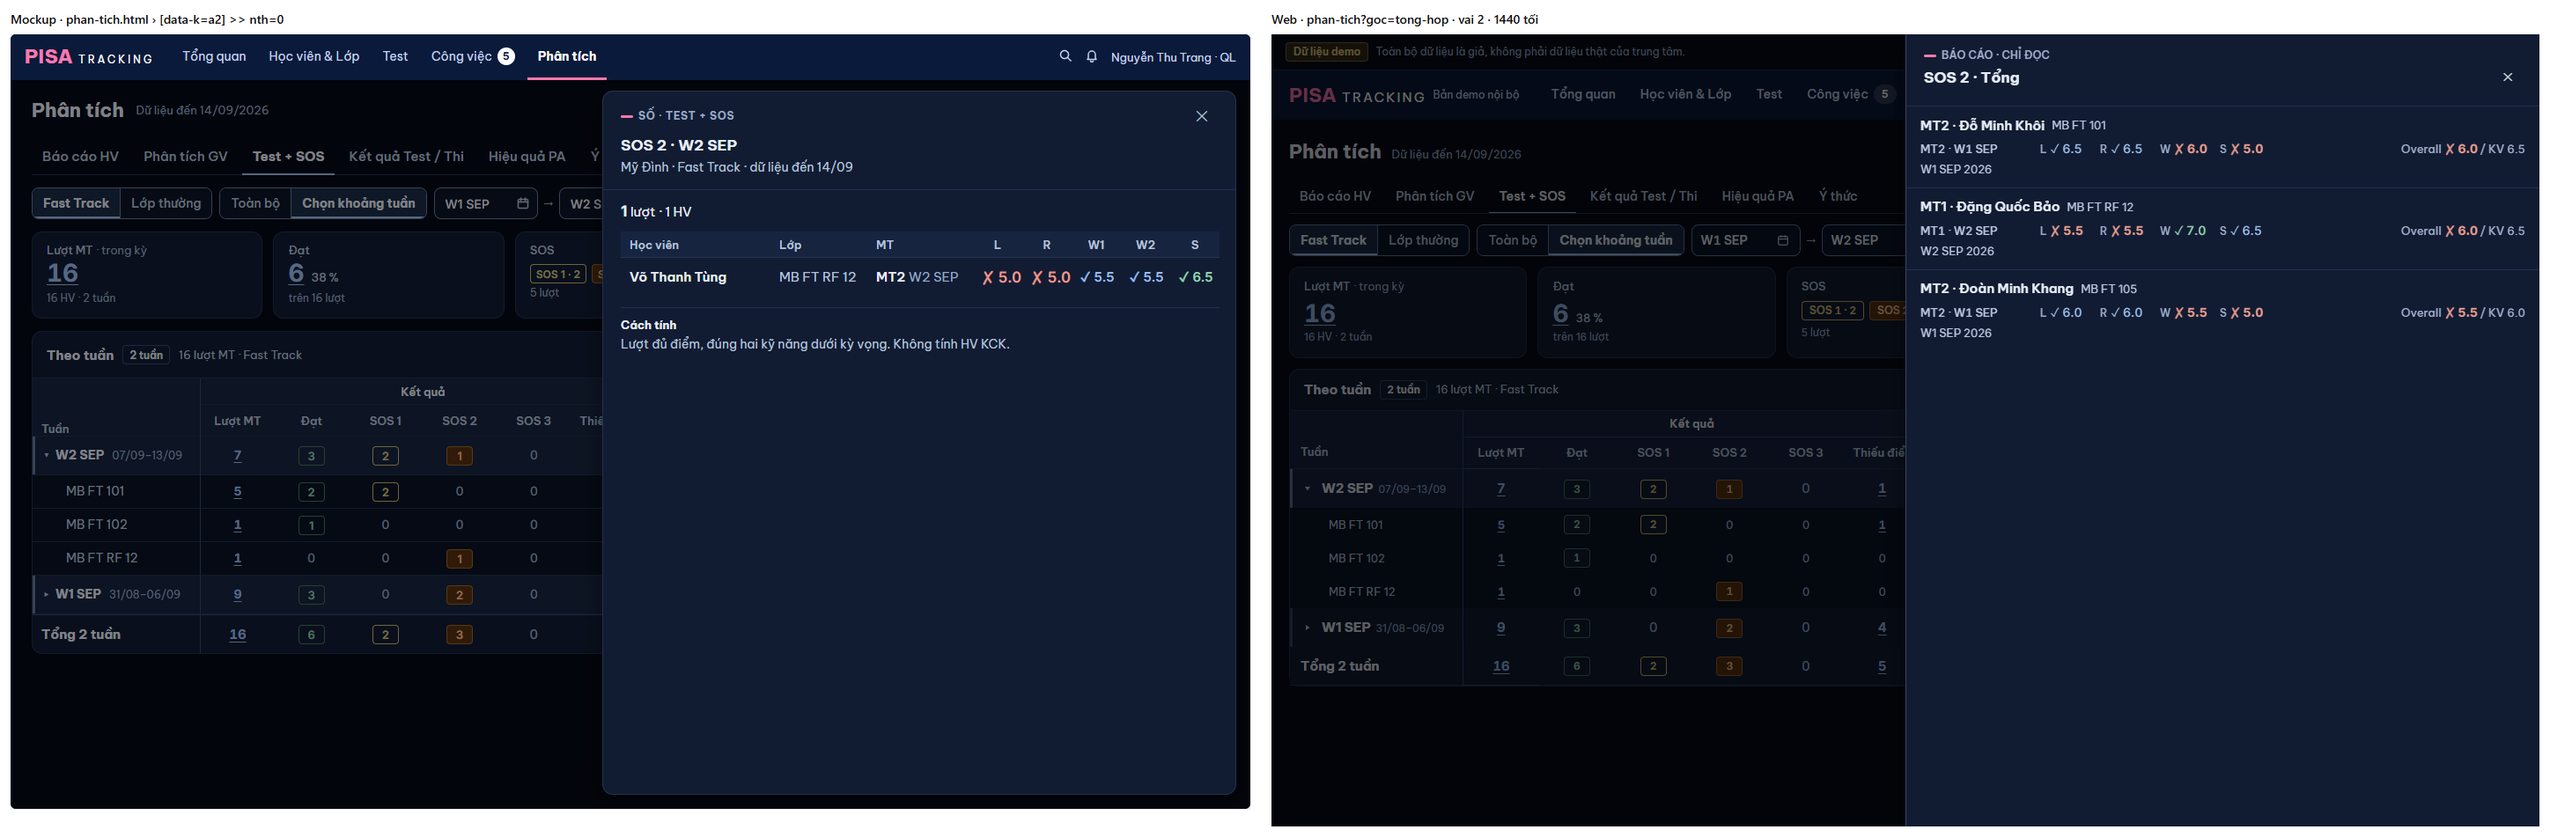
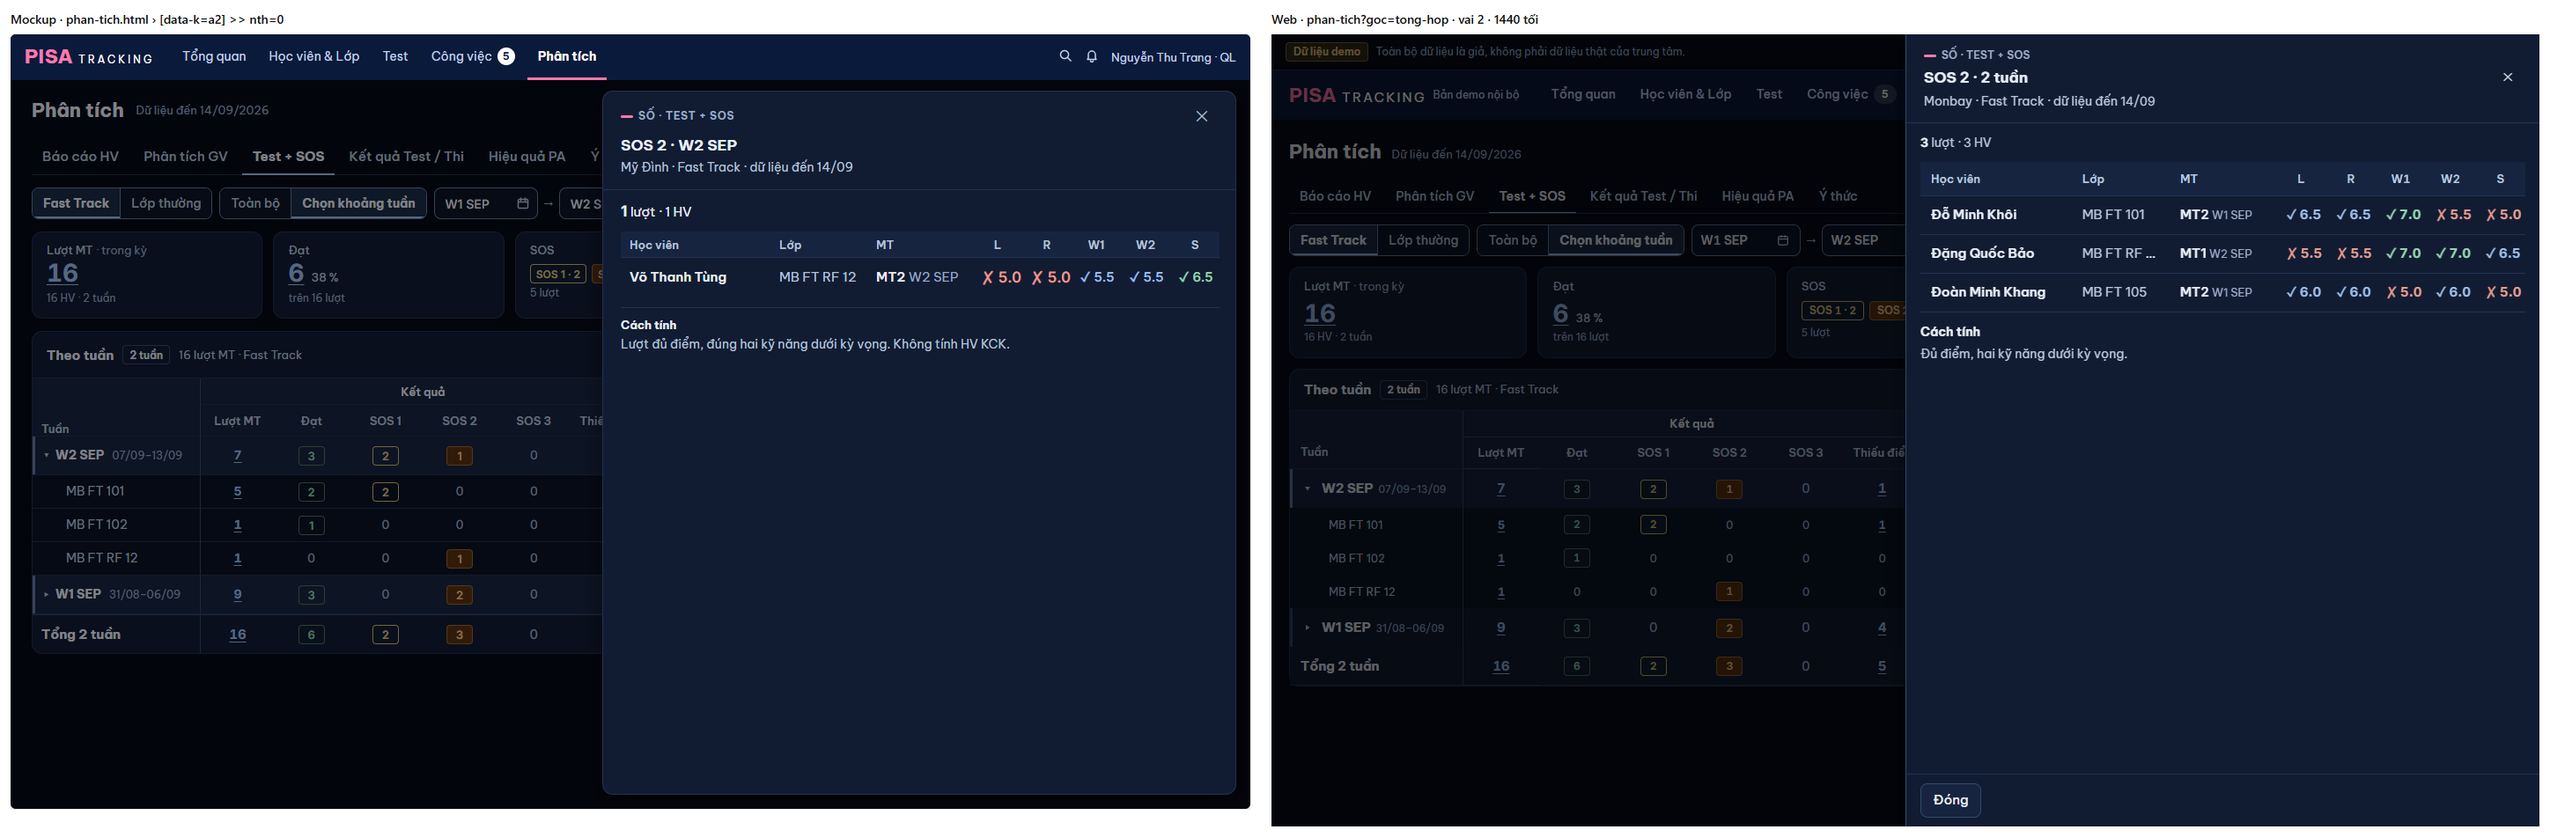
U08-2: panel số Test + SOS thành bảng như mockup (BangLuotPanel: L R W1 W2 S, Cách tính); chip trạng thái Case viền + chấm

Changed region(s): [[0.7459, 0.061, 0.9945, 0.4269], [0.9323, 0.1525, 0.9945, 0.183], [0.7459, 0.9453, 0.7769, 0.9758]]

diff --git a/server/src/phanTich/tongHop.ts b/server/src/phanTich/tongHop.ts
@@ -9,12 +9,11 @@ import { badRequest, forbidden } from '../util.ts';
 import { classScopeSql, scopeFor, type Principal } from '../permissions.ts';
 import { demoToday } from '../demoConfig.ts';
 import { mondayOf } from '../platform/week.ts';
-import { entryBandsOf, loadBundle, type AttemptBundle } from '../fasttrack/attempts.ts';
+import { entryBandsOf, loadBundle, resultOf, type AttemptBundle } from '../fasttrack/attempts.ts';
 import { expectationFor, failingEntrySkills } from '../fasttrack/scoring.ts';
 import { allProgrammes, type ProgrammeInfo } from '../normal/regular.ts';
 import { evaluateAttemptRow, luotKck } from '../worklist/danhGia.ts';
 import { rowsFor, type MetricRow } from '../worklist/metrics.ts';
-import { diemTuMock } from '../worklist/diemDong.ts';
 import { mockTrongKhoang } from './ketQuaThi.ts';
 import { CASE_THAT, XU_LY_COT_SQL, xuLyCuaDong } from '../cases/sosState.ts';
 
@@ -319,7 +318,7 @@ export function tongHop(p: Principal, f: FilterTongHop): TongHopKetQua {
 
 /** Danh sách của MỘT ô — tính lại bằng chính `tinh`, nên danh sách luôn đúng bằng con số (G-10). */
 export function oTongHop(p: Principal, f: FilterTongHop & { khoa: string; cot: string }):
-  { n: number; tieuDe: string; rows: MetricRow[] } {
+  { n: number; tieuDe: string; rows: MetricRow[]; bangLuot?: boolean; cachTinh?: string | null; chiNhanh?: string | null } {
   const cotDef = (cotSoLieu(f.ct) as CotTongHop[]).find((c) => c.khoa === f.cot);
   if (!cotDef) throw badRequest(`Cột "${f.cot}" không có trong bảng.`);
   const r = tinh(p, f);
@@ -338,17 +337,47 @@ export function oTongHop(p: Principal, f: FilterTongHop & { khoa: string; cot: s
     n: ids.length,
     tieuDe: `${ids.length} ${nhanDonVi(cotDef.donVi, f.ct)} — ${cotDef.nhomCon ? `${NHAN_NHOM_CON[cotDef.nhomCon]} · ` : ''}${cotDef.nhan(f.ct)} · ${nhanDong}`,
     rows: ganDiemLuot(p, cotDef.donVi, f.ct, rowsFor(cotDef.donVi, ids)),
+    /* U08-2: đầu panel bảng lượt — tên chi nhánh (web ghép "· Fast Track · dữ liệu đến dd/mm") + khối Cách tính (chữ gợi ý của cột, web dịch). */
+    ...(cotDef.donVi === 'dot-test' && f.ct === 'ft' ? {
+      bangLuot: true, cachTinh: cotDef.goiY ?? null,
+      chiNhanh: f.branchId ? (db().prepare('SELECT name FROM branches WHERE id = ?').get(f.branchId) as any)?.name ?? null : null,
+    } : {}),
   };
 }
 
+/** U08-2: một ô điểm của bảng lượt — band + so kỳ vọng của lượt (`resultOf`, cùng bộ máy chấm). */
+export type ODiemLuot = { v: number; kq: 'vuot' | 'bang' | 'duoi' | null } | null;
+export type DongLuotDiem = { studentId: number; ten: string; classId: number | null; lop: string; mt: number; tuan: string; kn: Record<'l' | 'r' | 'w1' | 'w2' | 's', ODiemLuot> };
+const KN_BANG = { l: 'listening', r: 'reading', w1: 'writing1', w2: 'writing2', s: 'speaking' } as const;
+
 /**
- * U08-2 (mockup V11 A2): dòng LƯỢT của panel Test + SOS (FT) kèm điểm L R W1 W2 S của CHÍNH lượt (`diemTuMock`, cùng ô Kết quả Test) — panel rộng 720
- * vẽ bảng điểm. Chỉ chạy khi MỞ panel: một câu lượt theo id + điểm / lịch của các lượt đó (`mockTrongKhoang` với `luot` truyền sẵn, không nạp Case).
+ * U08-2 (mockup V11 A2, PTA chốt 05/11 làm BẢNG): dòng LƯỢT của panel Test + SOS (FT) kèm điểm L R W1 W2 S của CHÍNH lượt — panel 720 vẽ bảng
+ * Học viên · Lớp · MT · L R W1 W2 S. Chỉ chạy khi MỞ panel: một câu lượt theo id + điểm / lịch của các lượt đó (`mockTrongKhoang` với `luot` sẵn,
+ * không nạp Case; `loadBundle` dùng lại điểm đã nhớ trong request).
  */
 function ganDiemLuot(p: Principal, donVi: string, ct: ChuongTrinh, rows: MetricRow[]): MetricRow[] {
   if (donVi !== 'dot-test' || ct !== 'ft' || !rows.length) return rows;
   const ph = rows.map(() => '?').join(',');
   const luot = luotTrongKhoang(`a.id IN (${ph})`, rows.map((r) => r.id));
-  const diem = new Map(mockTrongKhoang(p, { tu: '', den: '' }, { luot, boCase: true }).map((d) => [d.attemptId, diemTuMock(d)]));
-  return rows.map((r) => (diem.has(r.id) ? { ...r, diemHv: diem.get(r.id) } : r));
+  const mock = new Map(mockTrongKhoang(p, { tu: '', den: '' }, { luot, boCase: true }).map((d) => [d.attemptId, d]));
+  const bundle = loadBundle(luot.filter((a) => mock.has(a.id)).map((a) => a.id), { boCase: true });
+  const theoId = new Map(luot.map((a) => [a.id as number, a]));
+  return rows.map((r) => {
+    const d = mock.get(r.id), a = theoId.get(r.id);
+    if (!d || !a) return r;
+    const kq = resultOf(a, bundle.scores.get(a.id) ?? [], bundle.skips.get(a.id) ?? [], bundle.skillRows.get(a.id) ?? []);
+    const bands = entryBandsOf(bundle.scores.get(a.id) ?? []);
+    /* Kỹ năng: kết luận của bộ máy chấm (`verdicts`); W1 · W2 (verdict gộp W) so thẳng band với kỳ vọng của lượt — cùng luật cột "Dưới kỳ vọng · W1 / W2". */
+    const o = (k: string): ODiemLuot => {
+      const v = kq.verdicts.find((x) => x.skill === k);
+      const band = v ? v.band : bands[k as keyof typeof bands] ?? null;
+      if (band === null || band === undefined) return null;
+      const exp = kq.expectation;
+      if (v) return { v: band, kq: v.passed === false ? 'duoi' : v.passed === null ? null : exp !== null && band > exp ? 'vuot' : 'bang' };
+      return { v: band, kq: exp === null ? null : band < exp ? 'duoi' : band > exp ? 'vuot' : 'bang' };
+    };
+    const luotDiem: DongLuotDiem = { studentId: d.studentId, ten: d.ten, classId: d.classId, lop: d.lop, mt: d.mt, tuan: d.tuan,
+      kn: { l: o(KN_BANG.l), r: o(KN_BANG.r), w1: o(KN_BANG.w1), w2: o(KN_BANG.w2), s: o(KN_BANG.s) } };
+    return { ...r, luotDiem } as MetricRow;
+  });
 }

diff --git a/web/src/ui/BangLuotPanel.tsx b/web/src/ui/BangLuotPanel.tsx
@@ -1,0 +1,60 @@
+import { Link } from 'react-router-dom';
+import { KhungPanel } from './KhungPanel.tsx';
+import { Bang } from './Bang.tsx';
+import { ODiem } from './ODiem.tsx';
+import { ErrorState, Skeleton } from './ui.tsx';
+import { useNgayNghiepVu } from './ngayNghiepVu.ts';
+import { fmtBand } from '../lib/format.ts';
+import type { ApiError } from '../lib/api.ts';
+import { duongDotTest, duongHoSoHocVien, ngay, tuanLich, type DinhNghiaCot } from '@shared/domain/index.ts';
+import { dich, t } from '@shared/i18n/index.ts';
+
+type ODiemLuot = { v: number; kq: 'vuot' | 'bang' | 'duoi' | null } | null;
+/** `server/src/phanTich/tongHop.ts` `DongLuotDiem` — một lượt của panel số Test + SOS (FT). */
+export type DongLuotDiem = { studentId: number; ten: string; classId: number | null; lop: string; mt: number; tuan: string; kn: Record<'l' | 'r' | 'w1' | 'w2' | 's', ODiemLuot> };
+export type DuLieuBangLuot = { n: number; rows: { id: number; luotDiem?: DongLuotDiem }[]; bangLuot?: boolean; cachTinh?: string | null; chiNhanh?: string | null };
+
+const KN = [['l', 'L'], ['r', 'R'], ['w1', 'W1'], ['w2', 'W2'], ['s', 'S']] as const;
+const COT: DinhNghiaCot[] = [
+  { key: 'ten', nhan: t('Học viên'), kieu: 'ten', rong: 170 }, { key: 'lop', nhan: t('Lớp'), kieu: 'chu', rong: 110 }, { key: 'mt', nhan: 'MT', kieu: 'chu', rong: 120 },
+  ...KN.map(([k, n]): DinhNghiaCot => ({ key: k, nhan: n, kieu: 'diem', rong: 56 })),
+];
+/** Link chữ thường (U08-6): rê / focus mới báo. */
+const LINK = 'rounded-sm text-[color:var(--text)] no-underline hover:text-[color:var(--accent)] hover:underline hover:underline-offset-[3px] focus-visible:text-[color:var(--accent)] focus-visible:underline';
+
+/**
+ * PANEL SỐ TEST + SOS · BẢNG LƯỢT (U08-2, mockup V11 A2 — PTA chốt 05/11 làm bảng): đầu "SỐ · TEST + SOS" · "SOS 2 · W2 SEP" · "chi nhánh · Fast Track ·
+ * dữ liệu đến dd/mm" → "n lượt · m HV" → bảng Học viên · Lớp · MT · L R W1 W2 S (ô `ODiem` ✓ / ✗) → khối Cách tính. Chỉ đọc. Panel khác giữ `DongDiem`.
+ */
+export function BangLuotPanel({ tieuDe, data, loading, error, reload, onDong }: {
+  tieuDe: string; data: DuLieuBangLuot | null; loading: boolean; error: ApiError | null; reload: () => void; onDong: () => void;
+}) {
+  const { homNay } = useNgayNghiepVu();
+  const hang = (data?.rows ?? []).flatMap((r) => (r.luotDiem ? [{ id: r.id, ...r.luotDiem }] : []));
+  type H = (typeof hang)[number];
+  const oCua = (h: H, c: DinhNghiaCot) => {
+    if (c.key === 'ten') return <Link className={`font-semibold ${LINK}`} to={duongHoSoHocVien(h.studentId)}>{h.ten}</Link>;
+    if (c.key === 'lop') return h.classId ? <Link className={`${LINK} !text-dim`} to={`/hoc-vien/lop/${h.classId}`}>{h.lop}</Link> : <span className="text-dim">{h.lop}</span>;
+    if (c.key === 'mt') return <span className="whitespace-nowrap"><Link className={`font-semibold ${LINK}`} to={duongDotTest({ id: h.id, kind: 'mock' })}>MT{h.mt}</Link> <span className="text-[13px] text-faint">{tuanLich(h.tuan, homNay)}</span></span>;
+    const o = h.kn[c.key as keyof H['kn']];
+    return <ODiem so={o ? fmtBand(o.v) : null} kq={o?.kq ?? null} nhan={c.nhan} />;
+  };
+  const soHv = new Set(hang.map((h) => h.studentId)).size;
+  return (
+    <KhungPanel tieuDe={tieuDe} rong="rong" onDong={onDong} loai={t('SỐ · TEST + SOS')}
+      dau={{ dong2: [[data?.chiNhanh ?? t('Tất cả chi nhánh'), 'Fast Track', t('dữ liệu đến {ngay}', { ngay: ngay(homNay).slice(0, 5) })].join(' · ')] }}
+      chan={{ huy: { nhan: t('Đóng'), onClick: onDong } }}>
+      {error ? <div className="pt-3"><ErrorState message={error.message} hint={error.hint} status={error.status} onRetry={reload} /></div>
+        : loading || !data ? <div className="pt-3"><Skeleton rows={4} /></div>
+          : (
+            <div className="grid gap-3 pt-3">
+              <span className="text-sm text-dim"><b className="tabular-nums text-slate-100">{hang.length}</b> {t('lượt')} · {t('{n} HV', { n: soHv })}</span>
+              <Bang deu ten={tieuDe} cot={COT} hang={hang} khoa={(h) => h.id} oCua={oCua} khung={false} the375={false} />
+              {data.cachTinh && (
+                <div className="grid gap-1 text-sm"><b className="text-slate-100">{t('Cách tính')}</b><span className="text-dim">{dich(data.cachTinh)}</span></div>
+              )}
+            </div>
+          )}
+    </KhungPanel>
+  );
+}

diff --git a/web/src/modules/phanTich/PanelCaseLuot.tsx b/web/src/modules/phanTich/PanelCaseLuot.tsx
@@ -4,14 +4,13 @@ import { useApi } from '../../lib/useApi.ts';
 import { KhungPanel } from '../../ui/KhungPanel.tsx';
 import { ErrorState, Skeleton } from '../../ui/ui.tsx';
 import { ChipSos } from '../../ui/ChipSos.tsx';
-import { Nhan } from '../../ui/Nhan.tsx';
+import { NhanVien } from '../../ui/Nhan.tsx';
 import { useNgayNghiepVu } from '../../ui/ngayNghiepVu.ts';
 import type { CaseTomTat } from '../students/BangSos.tsx';
 import { KN_THI, NHAN_NHOM_XU_LY, duongHoSoHocVien, ngay, tuanLich, type DongMock } from '@shared/domain/index.ts';
 import { dich, t } from '@shared/i18n/index.ts';
 
 const TEN_KN: Record<(typeof KN_THI)[number], string> = { listening: 'Listening', reading: 'Reading', writing: 'Writing', speaking: 'Speaking' };
-const TONE_NHOM = { 'cho-duyet': 'muted', 'dang-xu-ly': 'doing', xong: 'done' } as const;
 /** Link chữ thường (U08-6): màu chữ, không gạch; rê / focus bàn phím → accent + gạch chân + vòng focus. */
 export const LINK_CHU = 'rounded-sm text-[color:var(--text)] no-underline hover:text-[color:var(--accent)] hover:underline hover:underline-offset-[3px] focus-visible:text-[color:var(--accent)] focus-visible:underline focus-visible:outline focus-visible:outline-2 focus-visible:outline-offset-2 focus-visible:outline-[color:var(--accent)]';
 
@@ -51,7 +50,7 @@ export function PanelCaseLuot({ r, onDong }: { r: DongMock; onDong: () => void }
                       <span aria-hidden>{m ? '▾' : '▸'}</span>{TEN_KN[k]}
                       <span className="inline-flex h-[22px] items-center rounded border border-bad-line px-2 text-sm font-semibold text-bad tabular-nums">✗ {r.kn[k].band?.toFixed(1)}</span>
                       {r.kyVong != null && <span className="text-[13px] font-medium text-faint">{t('kỳ vọng {kv}', { kv: r.kyVong.toFixed(1) })}</span>}
-                      <span className="ml-auto">{cs.length ? <Nhan tone={TONE_NHOM[cs[0].nhom]}>{t(NHAN_NHOM_XU_LY[cs[0].nhom])}</Nhan> : <span className="text-[13px] font-medium text-faint">{t('Chưa có Case')}</span>}</span>
+                      <span className="ml-auto">{cs.length ? <NhanVien xong={cs[0].nhom === 'xong'}>{t(NHAN_NHOM_XU_LY[cs[0].nhom])}</NhanVien> : <span className="text-[13px] font-medium text-faint">{t('Chưa có Case')}</span>}</span>
                     </button>
                     {m && (
                       <div className="grid gap-2.5 pb-3 pl-[38px] pr-3.5 text-sm">

diff --git a/web/src/ui/OSo.tsx b/web/src/ui/OSo.tsx
@@ -1,4 +1,5 @@
 import { Suspense } from 'react';
+import { BangLuotPanel } from './BangLuotPanel.tsx';
 import { METRIC_UNIT_LABEL, khoaSoLieu, metricById, tenMonNgan, type ChiSo } from '@shared/domain/index.ts';
 import { useMoSoLieu } from '../lib/quayLai.ts';
 import { useApi } from '../lib/useApi.ts';
@@ -55,8 +56,12 @@ export function OSo(props: Props) {
 }
 
 export function DanhSachNguon({ nguon, tieuDe, open, onClose }: { nguon: string; tieuDe: string; open: boolean; onClose: () => void }) {
-  const { data, loading, error, reload } = useApi<{ n: number; tieuDe: string; unit?: ChiSo['donVi']; rows: DongSoLieu[] }>(open ? nguon : null, [nguon, open]);
+  const { data, loading, error, reload } = useApi<{ n: number; tieuDe: string; unit?: ChiSo['donVi']; rows: DongSoLieu[]; bangLuot?: boolean; cachTinh?: string | null; chiNhanh?: string | null }>(open ? nguon : null, [nguon, open]);
   if (!open) return null;
+  /* U08-2: panel số Test + SOS (FT) theo lượt → bảng điểm L R W1 W2 S (mockup V11 A2). */
+  if (data?.bangLuot) {
+    return <BangLuotPanel tieuDe={tieuDe} data={data} loading={loading} error={error} reload={reload} onDong={onClose} />;
+  }
   /* OV-12e: cùng panel mở rộng dòng với ô số trong sổ (`NganDanhSach`). M6 6b-1 (bảng kê 0.2): tiêu đề = chữ nơi gọi (kèm ngữ cảnh: chi nhánh, lớp)
      — không đổi sang tiêu đề máy chủ khi tải xong (đầu panel không nhảy, không mất ngữ cảnh). */
   /* PANEL-V10: chỉ số theo một kỹ năng (`skill=` trong nguồn) → cột đó nền nhấn trong dòng điểm. */

diff --git a/web/src/modules/phanTich/TongHopTestSos.tsx b/web/src/modules/phanTich/TongHopTestSos.tsx
@@ -179,7 +179,7 @@ export function TongHopTestSos({ branchId, ct, khoang, classId }: {
     const v = row.o[col.khoa] ?? 0;
     if (v <= 0) return <span className="tabular-nums font-medium text-faint">0</span>;
     const nguon = `/phan-tich/tong-hop/o?${query}&khoa=${encodeURIComponent(row.khoa)}&cot=${encodeURIComponent(col.khoa)}`;
-    return <OSo giaTri={v} nguon={nguon} vung={vung} className={lop} nhan={nhan} tieuDe={`${col.nhomCon ? `${dich(NHAN_NHOM_CON[col.nhomCon])} · ` : ''}${dich(col.nhan(ct))} · ${row.nhan}`} />;
+    return <OSo giaTri={v} nguon={nguon} vung={vung} className={lop} nhan={nhan} tieuDe={`${col.nhomCon ? `${dich(NHAN_NHOM_CON[col.nhomCon])} · ` : ''}${dich(col.nhan(ct))} · ${row.khoa === 'tong' && data ? demTheo(theo, data.hang.length) : row.nhan}`} />;   /* U08-2: ô Tổng → "SOS 2 · 2 tuần" */
   };
   const oCell = (row: DongTongHop, col: CotTongHop) => {
     if (oKhongApDung(col, row.coDot)) return <span className="text-faint" title={t('Dòng này không có bài loại này')}>—</span>;

diff --git a/web/src/ui/Nhan.tsx b/web/src/ui/Nhan.tsx
@@ -78,6 +78,11 @@ const NHAN: Record<ToneNhan, string> = {
   doing: `bg-[color:var(--surface-2)] text-doing ${CHAM}`, muted: `bg-[color:var(--surface-2)] text-dim ${CHAM} before:!bg-slate-600`,
 };
 
+/** U08-4 (mockup V11 `.bdv.dang`): chip trạng thái Case viền + chấm trên nền "đang làm" (panel Case theo kỹ năng); `xong` = xám. */
+export function NhanVien({ xong, children }: { xong?: boolean; children: ReactNode }) {
+  return <span className={`${CHIP_TRON} ${CHAM} !border-[color-mix(in_srgb,currentColor_65%,transparent)] ${xong ? 'bg-muted-bg text-dim' : 'bg-[rgb(var(--doing-bg-rgb))] text-doing'}`}>{children}</span>;
+}
+
 /** Bảng trạng thái → tone ở shared (PR-GVb U01) — re-export để chỗ gọi cũ (`KhoiNo`) không đổi import. */
 export { TONE_TRANG_THAI };
 

diff --git a/shared/i18n/en/uiU08.ts b/shared/i18n/en/uiU08.ts
@@ -12,4 +12,5 @@ export const EN_UI_U08 = {
   '{n} kỹ năng dưới kỳ vọng': '{n} skills below expectation',
   'Chưa có Case': 'No case yet',
   'Chưa có kỹ năng dưới kỳ vọng.': 'No skill below expectation.',
+  'SỐ · TEST + SOS': 'NUMBER · TEST + SOS',
 } satisfies Record<string, Dich>;

diff --git a/docs/anh/pr-u08/khop-khac.md b/docs/anh/pr-u08/khop-khac.md
@@ -24,7 +24,8 @@ Bảng ý: `14-ra-ux-b.md` mục 11.4 (U08-1 … U08-8) + 10.5 #1. Luật chung 
 | B16/B25 | Phụ đề "· % trên HV đủ dữ liệu"; dòng phụ "8 HV · 3 đủ dữ liệu" | KHỚP | |
 | B1 | Bảng 1.75 : 1 | KHỚP | |
 | B1 | Hàng MT0 · Thi thật trong Kết quả MT | KHÁC (dữ liệu) | GIỮ — hàng có sẵn (V4), mockup chỉ vẽ MT1–MT3+ |
-| U08-2 | Panel SOS 720 px, mỗi lượt có điểm L R W S + Overall / KV | KHỚP về rộng + điểm | KHÁC dáng: dùng `DongDiem` chung của MỌI panel số (một mẫu dòng điểm), không bảng riêng chỉ cho panel này. Tên không xuống dòng |
+| U08-2 | Panel SOS 720 px: "SỐ · TEST + SOS" · "SOS 2 · W2 SEP" (ô Tổng → "· 2 tuần") · "chi nhánh · Fast Track · dữ liệu đến" · "n lượt · m HV" · bảng Học viên · Lớp · MT · L R W1 W2 S (`ODiem` ✓ / ✗) · Cách tính | KHỚP | PTA chốt 05/11 làm bảng (`BangLuotPanel`, `Bang` sẵn có); panel số khác giữ `DongDiem` |
+| U08-4 | Chip trạng thái Case viền + chấm trên nền "đang làm" | KHỚP | `NhanVien` (ui/Nhan) |
 | U08-3 | Bỏ cột "Xử lý" | KHỚP | nội dung → panel U08-4; Xuất Excel GIỮ cột Case / PA · Việc tiếp |
 | U08-4 | Chip SOS = nút → panel "CASE · KẾT QUẢ TEST", "{tên} · MT2 · SOS 2", "lớp · tuần · n kỹ năng dưới kỳ vọng"; mỗi kỹ năng dưới kỳ vọng một khối mở rộng, khối đầu mở sẵn: Case · Phụ trách + hạn · PA · Kết quả PA; không Case → "Chưa có Case" | KHỚP | chỉ đọc (G8); tên HV, lớp là link |
 | U08-5 | "MT2" 15 / 600 màu chữ (hồ sơ lượt) + "W1 SEP" 13 mờ | KHỚP | |
@@ -33,7 +34,7 @@ Bảng ý: `14-ra-ux-b.md` mục 11.4 (U08-1 … U08-8) + 10.5 #1. Luật chung 
 | U08-8 | Chưa chọn = "Chưa chọn" mờ, bỏ "· Hồ sơ HV ›" | KHỚP | xử lý → bấm tên HV |
 | A3 | "Chưa đủ điểm" ghi "không vào tỷ lệ" (mockup 47 %), Đạt / Chưa đạt % trên lượt có kết quả | KHÁC (luật số) | GIỮ cách tính đã chốt (`ketQuaThi.ts`) |
 
-Về hình: 15 / 16 dòng KHỚP (94 %) — dòng KHÁC hình duy nhất là panel A2 dùng mẫu dòng điểm chung (có lý do: một mẫu cho mọi panel số). Hai dòng KHÁC còn lại là dữ liệu / luật số.
+Về hình: 17 / 17 dòng hình KHỚP. Hai dòng KHÁC là dữ liệu / luật số (hàng Thi thật giữ; % Chưa đủ điểm theo luật đã chốt). PTA 05/11: Thiếu 1.0 cam (token `kq-thieu10`), hàng 52 px, ẩn hàng 0 HV, khung điểm ở panel Case.
 
 ## Thao tác TRƯỚC → SAU
 | Thao tác | Trước | Sau | Vì sao |
@@ -49,7 +50,7 @@ Về hình: 15 / 16 dòng KHỚP (94 %) — dòng KHÁC hình duy nhất là pan
 ## Turso
 - Mở trang: **+0**.
 - Bấm chip SOS (Kết quả Test): **1** `GET /hoc-vien-lop/em/:id` (đường sẵn có của panel một em; một em).
-- Mở panel số Test + SOS (FT, cột theo lượt): thêm điểm lượt — 1 câu lượt theo id + điểm / lịch của chính các lượt đó (`mockTrongKhoang` với `luot` sẵn, không Case); chỉ khi MỞ panel.
+- Mở panel số Test + SOS (FT, cột theo lượt): thêm điểm lượt — 1 câu lượt theo id + điểm / lịch của chính các lượt đó (`mockTrongKhoang` với `luot` sẵn, không Case) + 1 câu tên chi nhánh; chỉ khi MỞ panel.
 
 ## Chú thích `ponytail:`
 Không có.
